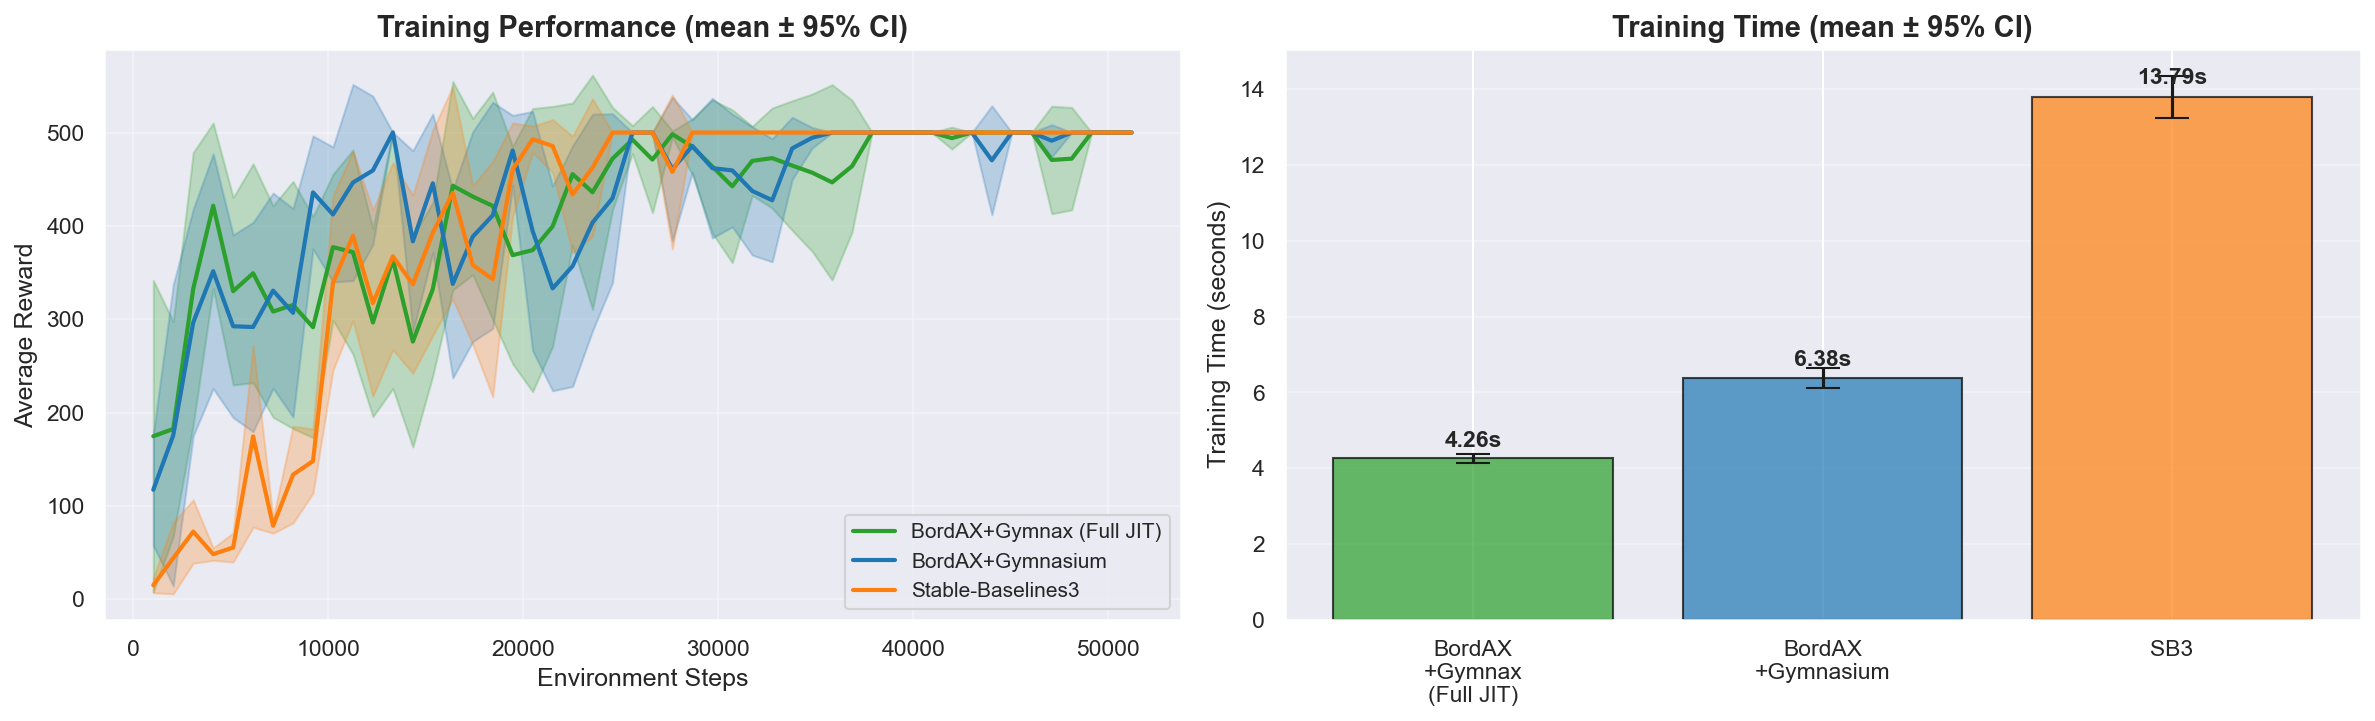
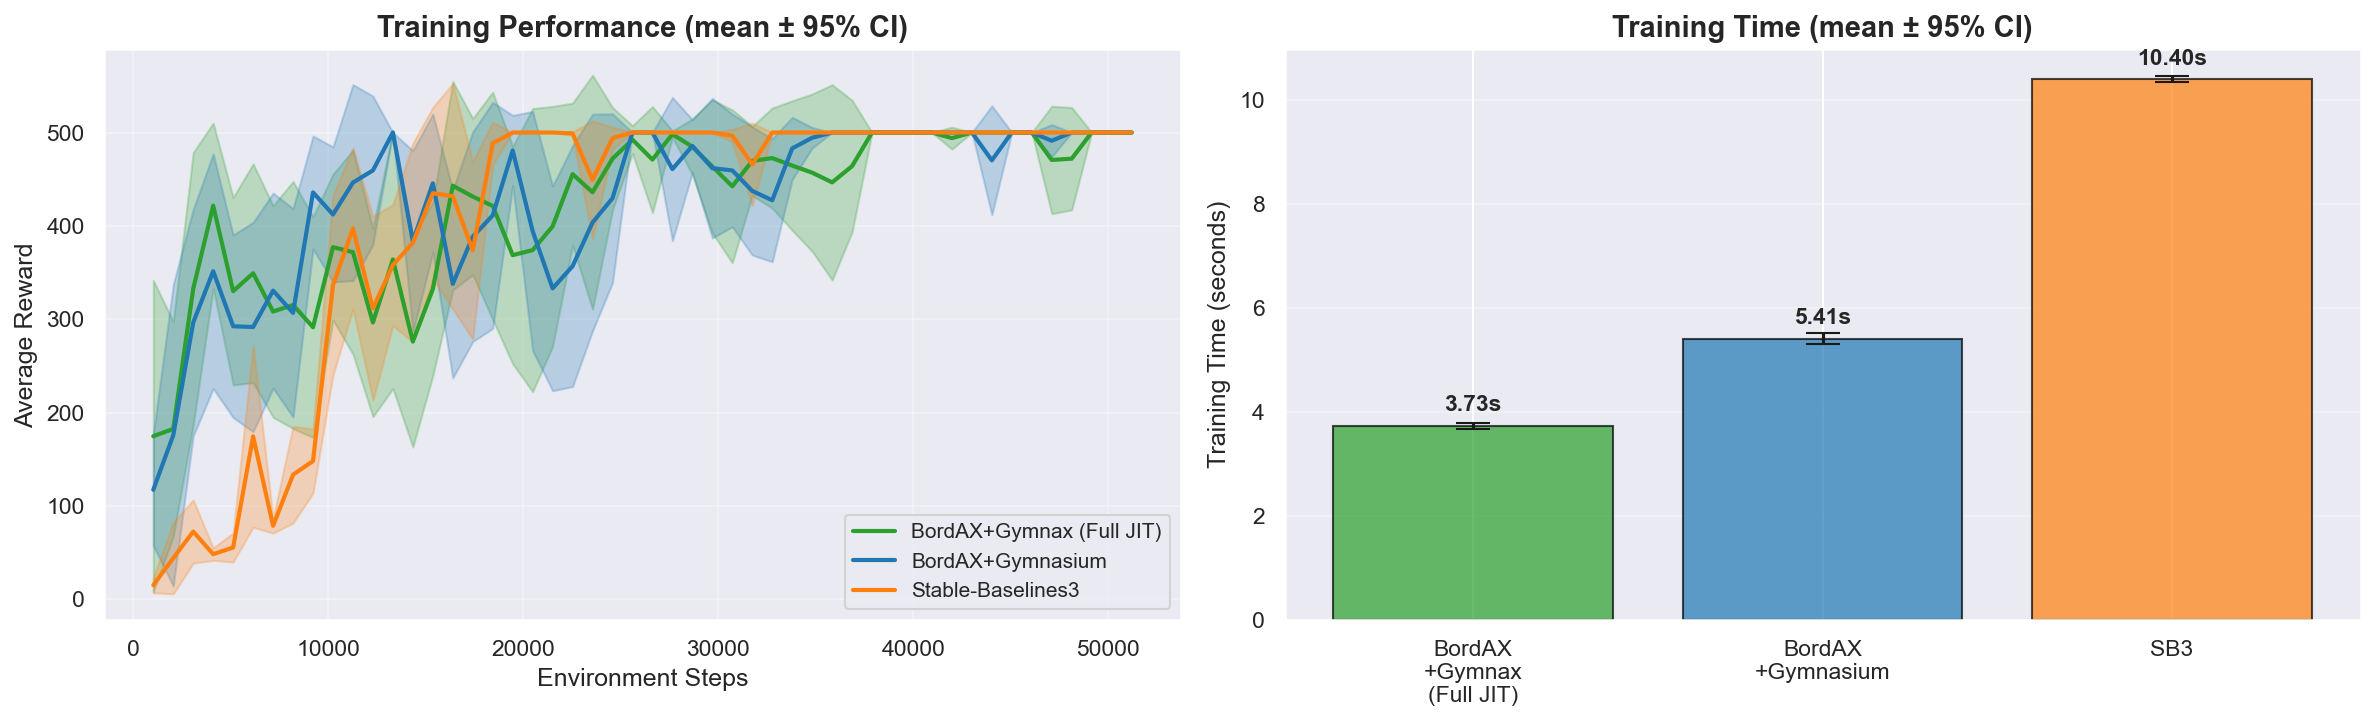
update the benchmark

diff --git a/compare_sb3.py b/compare_sb3.py
@@ -39,6 +39,7 @@ from stable_baselines3 import PPO as SB3_PPO
 from stable_baselines3.common.vec_env import DummyVecEnv
 from stable_baselines3.common.callbacks import BaseCallback
 from stable_baselines3.common.evaluation import evaluate_policy
+from stable_baselines3.common.monitor import Monitor
 import torch.nn as nn
 
 
@@ -364,8 +365,8 @@ def train_sb3(seed: int):
     
     # Environment
     def make_env_fn():
-        return gym.make(ENV_NAME)
-    
+        return Monitor(gym.make(ENV_NAME))
+
     env = DummyVecEnv([make_env_fn for _ in range(NUM_ENVS)])
     eval_env = DummyVecEnv([make_env_fn])
     try:

diff --git a/README.md b/README.md
@@ -53,16 +53,18 @@ PPO on CartPole-v1 with identical hyperparameters (5 seeds, 51k timesteps):
 
 | Framework | Training Time | Throughput | Speedup |
 |-----------|--------------|------------|---------|
-| **BordAX + Gymnax** (Full JIT) | 4.26s ± 0.12s | **12,027 steps/s** | **3.2x** |
-| **BordAX + Gymnasium** | 6.38s ± 0.27s | 8,021 steps/s | 2.2x |
-| Stable-Baselines3 | 13.79s ± 0.55s | 3,714 steps/s | 1.0x |
+| **BordAX + Gymnax** (Full JIT) | 3.73s ± 0.06s | **13,709 steps/s** | **2.8x** |
+| **BordAX + Gymnasium** | 5.41s ± 0.11s | 9,468 steps/s | 1.9x |
+| Stable-Baselines3 | 10.40s ± 0.05s | 4,923 steps/s | 1.0x |
 
 <p align="center">
   <img src="https://github.com/SynthesisLab/bordax/blob/main/imgs/comparison.png?raw=true" alt="Benchmark Comparison" width="800"/>
 </p>
 
-With Gymnax (fully JIT-compiled), BordAX is **3.2x faster** than Stable-Baselines3.
-Even with Gymnasium (Python environment), BordAX is **2.2x faster**.
+With Gymnax (fully JIT-compiled), BordAX is **2.8x faster** than Stable-Baselines3.
+Even with Gymnasium (Python environment), BordAX is **1.9x faster**.
+
+*Measured on Apple M3 Pro (2023) with JAX 0.9.0, Stable-Baselines3 2.8.0, PyTorch 2.11.0.*
 
 Run the benchmark yourself:
 ```bash
